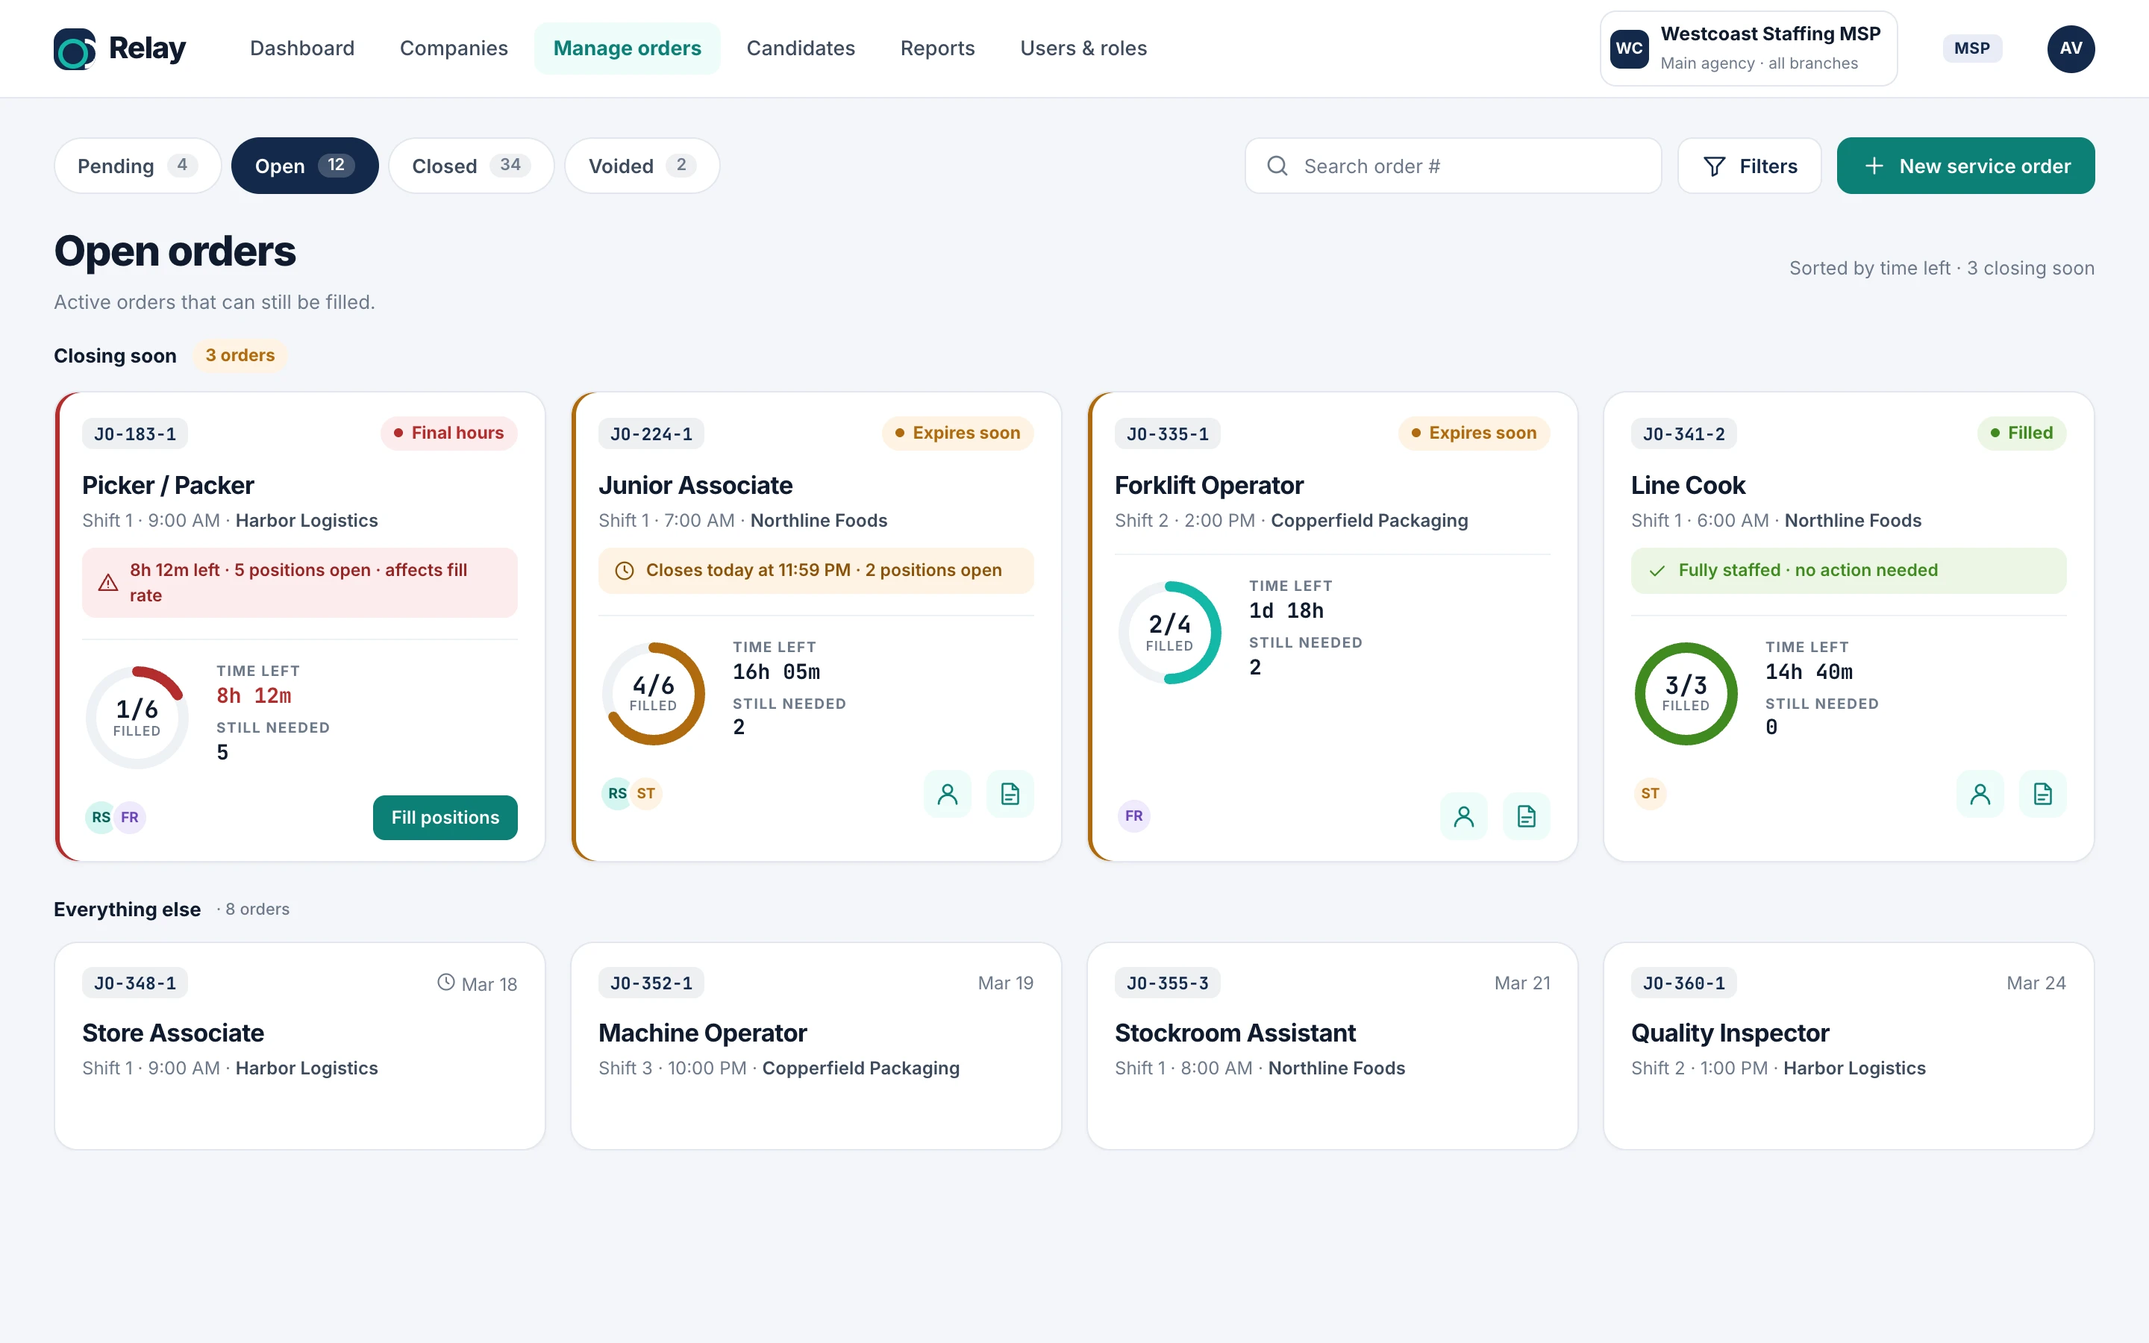
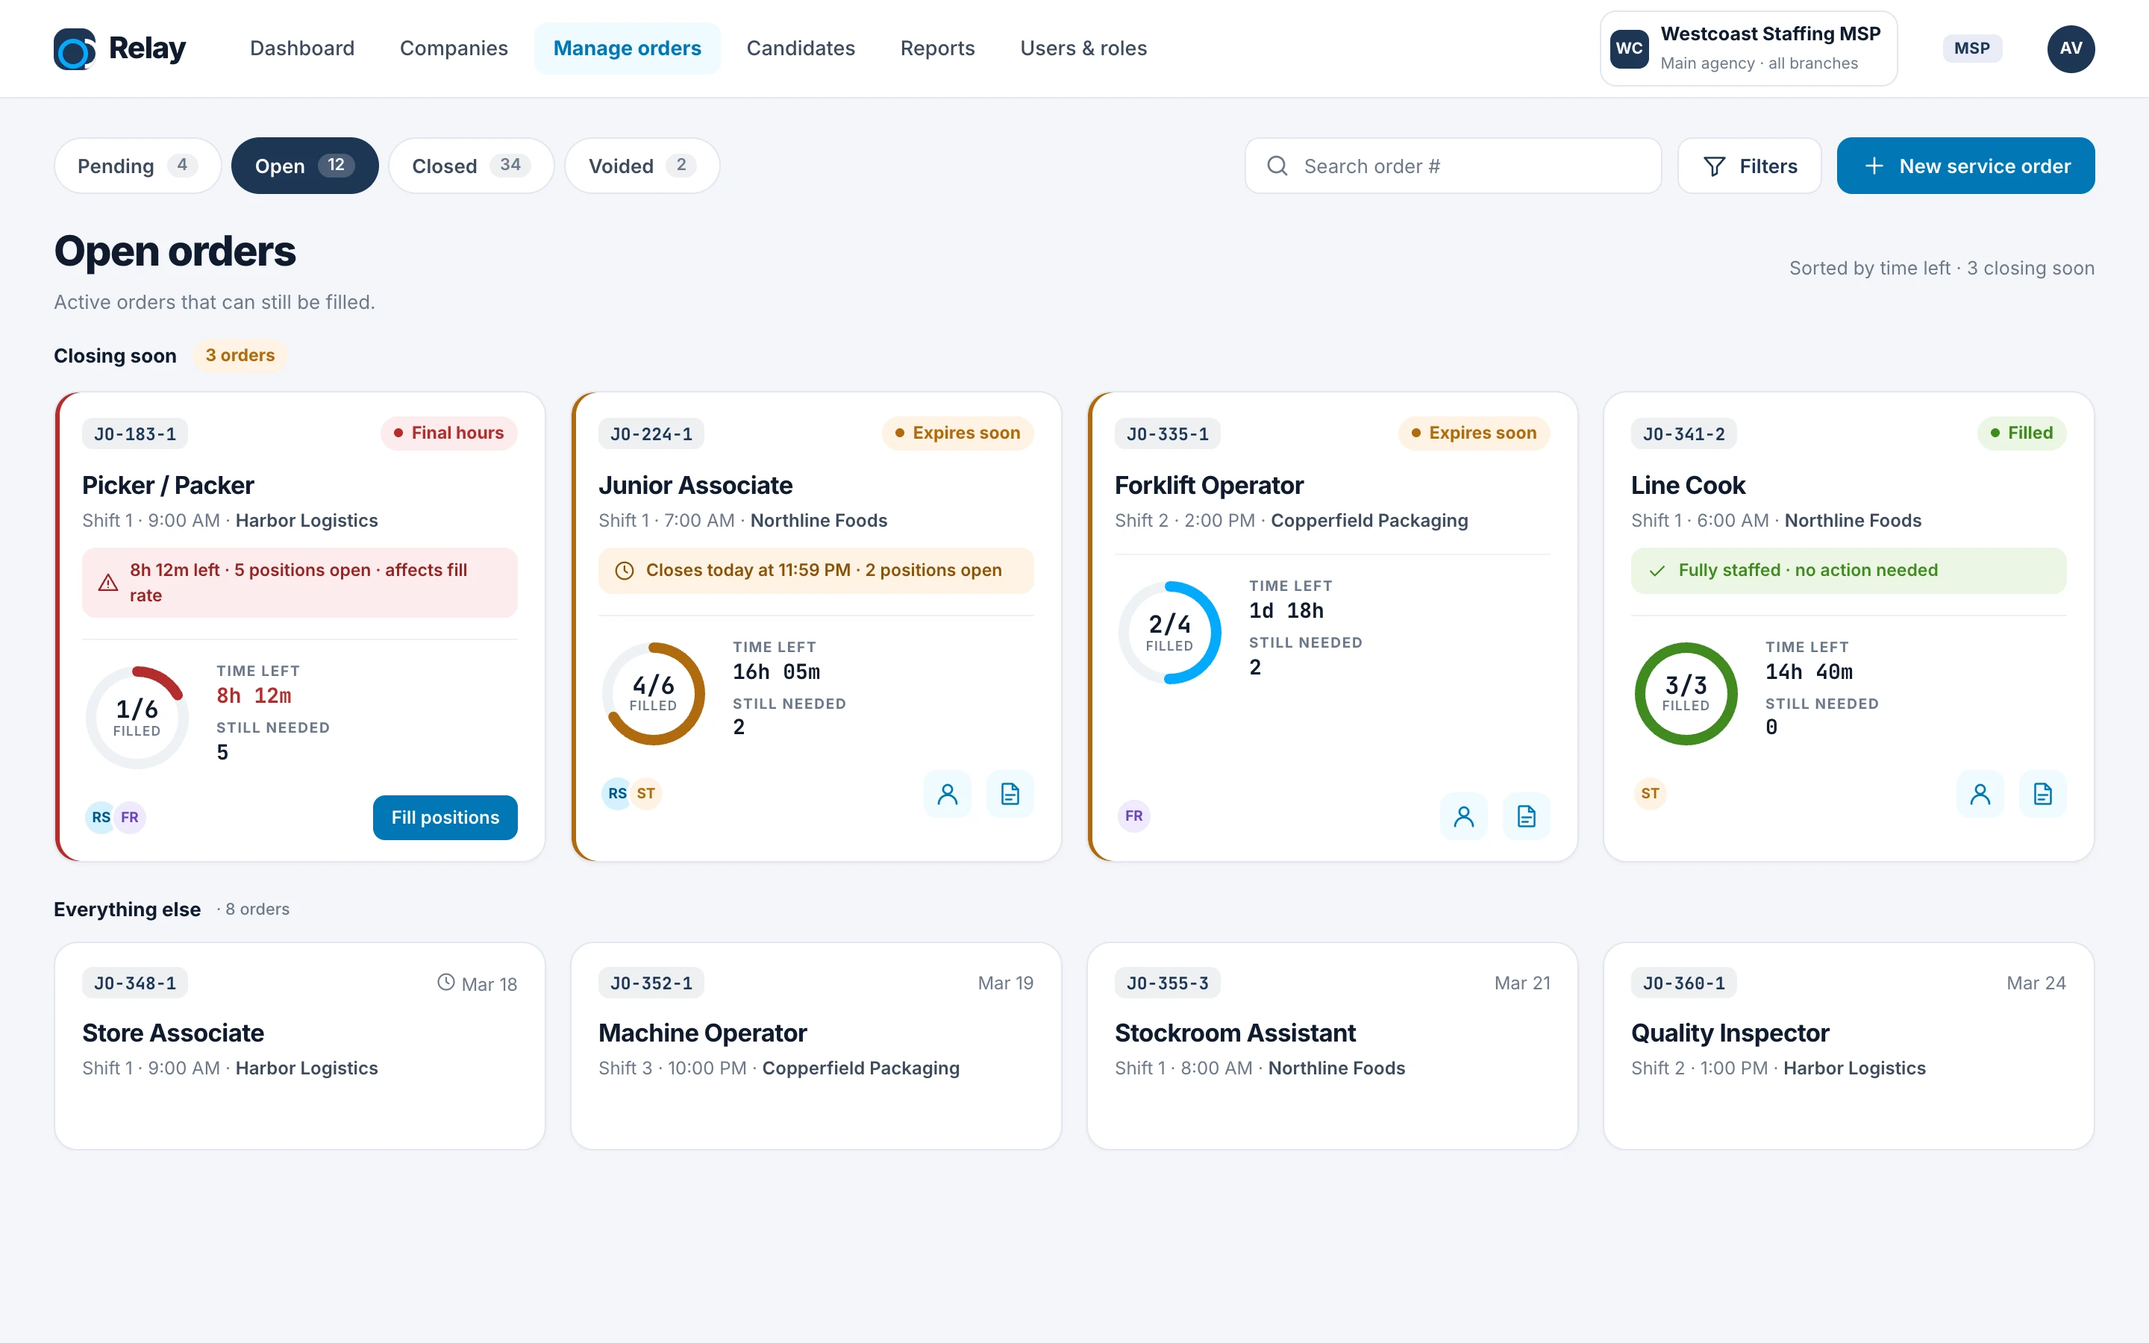
Use the real cyan and navy brand colors in Relay and Foundry

diff --git a/case-relay.html b/case-relay.html
@@ -33,7 +33,7 @@
 <section class="decision decision-reverse wrap"><div class="decision-copy"><span class="decision-index">02 / Outcomes, not deletions</span><h2>Replacing “Deleted” with real outcomes.</h2><p>The old “Deleted” tab mixed failed orders, cancelled orders and mistakes, and implied the history was gone.</p><dl><div><dt>The decision</dt><dd>Tabs become Pending, Open, Closed and Voided. A closed order shows what happened (fully filled, incomplete, unfilled) separately from how it closed (automatically or by a staffer).</dd></div><div><dt>The guardrail</dt><dd>No order is deleted. Void is only for MSP entry errors, needs a reason, and voiding a service order voids its job orders with an audit record.</dd></div><div><dt>Why it matters</dt><dd>Reports can now tell a hard-to-fill order apart from a data-entry mistake.</dd></div></dl></div><figure class="screen-figure"><div class="screen-stage"><a class="screen-zoom" href="./assets/relay/status.webp" data-zoom aria-label="Enlarge: Closed orders with outcome and closure columns, and a void dialog that requires a reason"><img src="./assets/relay/status.webp" alt="Closed orders with outcome and closure columns, and a void dialog that requires a reason" loading="lazy" decoding="async" width="2880" height="1800" /></a></div><figcaption><span>Closed orders · Outcome vs. closure, void with reason</span><a href="./assets/relay/status.webp" data-zoom data-alt="Closed orders with outcome and closure columns, and a void dialog that requires a reason">Enlarge screen ↗</a></figcaption></figure></section>
 <section class="decision wrap"><div class="decision-copy"><span class="decision-index">03 / Ownership</span><h2>Making it clear who owns each order.</h2><p>Several MSP users and branches work the same order. Without clear ownership, nobody felt responsible for the gap.</p><dl><div><dt>The decision</dt><dd>Every order has a host who owns it, co-hosts who help without taking ownership, and participants who can pledge and submit.</dd></div><div><dt>The guardrail</dt><dd>Cross-branch invites apply to one order only and stay pending until accepted. A sticky summary keeps fill, branches and time left in view while you switch sections.</dd></div><div><dt>Why it matters</dt><dd>Pledges make capacity explicit before filling starts, so fill rate is measured against a commitment.</dd></div></dl></div><figure class="screen-figure"><div class="screen-stage"><a class="screen-zoom" href="./assets/relay/detail.webp" data-zoom aria-label="Enlarge: Order detail with sticky summary, branch pledges, submitted candidates and order team"><img src="./assets/relay/detail.webp" alt="Order detail with sticky summary, branch pledges, submitted candidates and order team" loading="lazy" decoding="async" width="2880" height="1800" /></a></div><figcaption><span>Order detail · Pledges and the order team</span><a href="./assets/relay/detail.webp" data-zoom data-alt="Order detail with sticky summary, branch pledges, submitted candidates and order team">Enlarge screen ↗</a></figcaption></figure></section>
 <section class="decision decision-reverse wrap"><div class="decision-copy"><span class="decision-index">04 / Visibility</span><h2>What the client sees, and what stays internal.</h2><p>The client company and the MSP look at the same order, but the client should never see branch pledges, internal notes or fill-rate targets.</p><dl><div><dt>The decision</dt><dd>The client view is built around progress and the decisions only they can make: accepting or declining candidates.</dd></div><div><dt>The guardrail</dt><dd>Internal data is removed for the client role in the data itself, and the screen tells MSP users what the client can’t see.</dd></div><div><dt>Why it matters</dt><dd>Clients see their progress without seeing how the MSP works with its agencies.</dd></div></dl></div><figure class="screen-figure"><div class="screen-stage"><a class="screen-zoom" href="./assets/relay/company.webp" data-zoom aria-label="Enlarge: Client view of the same order with request progress and candidates to review"><img src="./assets/relay/company.webp" alt="Client view of the same order with request progress and candidates to review" loading="lazy" decoding="async" width="2880" height="1800" /></a></div><figcaption><span>Client view · Progress and candidate review</span><a href="./assets/relay/company.webp" data-zoom data-alt="Client view of the same order with request progress and candidates to review">Enlarge screen ↗</a></figcaption></figure></section>
-<section class="chapter wrap" id="system"><div class="chapter-heading"><p class="eyebrow">03 / The system underneath</p><h2>Built on a design system shared with Meralis.</h2></div><div class="chapter-copy"><p>Relay runs on Foundry, the token-based system I maintain for both products. Here it fixed a brand color that failed contrast (2.5:1 → 4.87:1) and gave status and role badges different colors so they don’t get confused.</p><p><a class="primary-link" href="./case-foundry.html">Read the Foundry case ↗</a></p></div></section>
+<section class="chapter wrap" id="system"><div class="chapter-heading"><p class="eyebrow">03 / The system underneath</p><h2>Built on a design system shared with Meralis.</h2></div><div class="chapter-copy"><p>Relay runs on Foundry, the token-based system I maintain for both products. Here it fixed a brand color that failed contrast (2.6:1 → 4.86:1) and gave status and role badges different colors so they don’t get confused.</p><p><a class="primary-link" href="./case-foundry.html">Read the Foundry case ↗</a></p></div></section>
 <section class="chapter wrap" id="training"><div class="chapter-heading"><p class="eyebrow">04 / User training</p><h2>Training new users on the whole workflow.</h2></div><div class="chapter-copy"><p>New users struggled because they learned screens without understanding the chain behind them. I designed and built a training site: five animated journeys (order, recruiter, worker, payroll and time off) that show how work moves between teams, linked to role-based lessons and exercises.</p><p><strong>What I would do earlier:</strong> write the order rules (ownership, outcomes, who sees what) in a shared document before designing any screen. A lot of my later work was turning rules people had in their heads into something written.</p></div></section>
 <div class="wrap"><figure class="screen-figure"><div class="screen-stage"><a class="screen-zoom" href="./assets/relay/training.webp" data-zoom aria-label="Enlarge: Training site with an animated order journey and a library of five journeys"><img src="./assets/relay/training.webp" alt="Training site with an animated order journey and a library of five journeys" loading="lazy" decoding="async" width="2880" height="1800" /></a></div><figcaption><span>User training · Animated journeys by role</span><a href="./assets/relay/training.webp" data-zoom data-alt="Training site with an animated order journey and a library of five journeys">Enlarge screen ↗</a></figcaption></figure></div>
 <footer class="case-footer wrap"><div><span>Have a workflow with too many handoffs?</span><h2>Let’s talk.</h2></div><a class="primary-link" href="./index.html#contact">Contact Irene ↗</a><a href="./index.html#work">← Back to selected work</a></footer>

diff --git a/case-foundry.html b/case-foundry.html
@@ -16,15 +16,15 @@
   <h1>A design system<br><em>shared by two products.</em></h1>
   <div class="intro-bottom"><p>Foundry is the design system behind <a href="./case-meralis.html">Meralis</a> and <a href="./case-relay.html">Relay</a>. I created it so both products could use the same tokens, components and rules. Everything is written down, so developers and the AI tools we use read the same guidelines I do.</p><a class="primary-link" href="#themes">See the system ↓</a></div>
 </section>
-<div class="wrap"><figure class="screen-figure"><div class="screen-stage"><a class="screen-zoom" href="./assets/foundry/themes.webp" data-zoom aria-label="Enlarge: The same components rendered in Relay teal and Meralis purple"><img src="./assets/foundry/themes.webp" alt="The same components rendered in Relay teal and Meralis purple" loading="lazy" decoding="async" width="2880" height="1610" /></a></div><figcaption><span>Same tokens, same components, two brands</span><a href="./assets/foundry/themes.webp" data-zoom data-alt="The same components rendered in Relay teal and Meralis purple">Enlarge ↗</a></figcaption></figure></div>
+<div class="wrap"><figure class="screen-figure"><div class="screen-stage"><a class="screen-zoom" href="./assets/foundry/themes.webp" data-zoom aria-label="Enlarge: The same components rendered in Relay cyan and Meralis purple"><img src="./assets/foundry/themes.webp" alt="The same components rendered in Relay cyan and Meralis purple" loading="lazy" decoding="async" width="2880" height="1610" /></a></div><figcaption><span>Same tokens, same components, two brands</span><a href="./assets/foundry/themes.webp" data-zoom data-alt="The same components rendered in Relay cyan and Meralis purple">Enlarge ↗</a></figcaption></figure></div>
 <section class="project-facts wrap" aria-label="Project summary">
   <div><span>My role</span><strong>Creator &amp; owner</strong><p>I created the system: token values, guidelines, component rulings and documentation. One front-end developer implemented it hand in hand with me.</p></div>
   <div><span>Scale</span><strong>2 products · ~8 developers</strong><p>47 components and 193 semantic tokens, 177 of them shared, used daily by around eight developers. 16 logged decisions.</p></div>
   <div><span>Method</span><strong>Written rules + AI tools</strong><p>Specs that both developers and AI coding tools follow. Figma stays as the visual reference.</p></div>
 </section>
-<p class="disclosure wrap">Foundry is an anonymized name for the design system of two live products at my current company. Boards are portfolio reconstructions using the real token values and rules.</p>
-<section class="chapter wrap" id="context"><div class="chapter-heading"><p class="eyebrow">01 / The problem</p><h2>Two related products, built in two different ways.</h2></div><div class="chapter-copy"><p>The HR product and the staffing marketplace share modules like time off, payroll and roles, but they were built with different component libraries, hardcoded colors and their own spacing.</p><p>The marketplace’s bright brand color was used for buttons and text, where white text reached only 2.5:1. Borders and focus rings were almost invisible.</p><p><strong>I wanted one system both products could use, while each one kept its own brand.</strong></p></div></section>
-<section class="chapter wrap" id="themes"><div class="chapter-heading"><p class="eyebrow">02 / One system, two brands</p><h2>The same tokens, with a different brand on top.</h2></div><div class="chapter-copy"><p>Both products use the same semantic tokens and components. A thin adapter layer maps each product’s brand palette onto those names, so a button is always <code>--brand-cta</code>, whether it renders teal or purple.</p><p>Spacing, radius, type, density, motion, focus and borders are shared outright. Only brand, neutrals and a few data-visualization accents are themed.</p></div></section>
+<p class="disclosure wrap">Foundry is a portfolio name for the design system of two live products at my current company. The boards use the real token values and rules.</p>
+<section class="chapter wrap" id="context"><div class="chapter-heading"><p class="eyebrow">01 / The problem</p><h2>Two related products, built in two different ways.</h2></div><div class="chapter-copy"><p>The HR product and the staffing marketplace share modules like time off, payroll and roles, but they were built with different component libraries, hardcoded colors and their own spacing.</p><p>The marketplace’s bright brand color was used for buttons and text, where white text reached only 2.6:1. Borders and focus rings were almost invisible.</p><p><strong>I wanted one system both products could use, while each one kept its own brand.</strong></p></div></section>
+<section class="chapter wrap" id="themes"><div class="chapter-heading"><p class="eyebrow">02 / One system, two brands</p><h2>The same tokens, with a different brand on top.</h2></div><div class="chapter-copy"><p>Both products use the same semantic tokens and components. A thin adapter layer maps each product’s brand palette onto those names, so a button is always <code>--brand-cta</code>, whether it renders cyan or purple.</p><p>Spacing, radius, type, density, motion, focus and borders are shared outright. Only brand, neutrals and a few data-visualization accents are themed.</p></div></section>
 <div class="wrap"><figure class="screen-figure"><div class="screen-stage"><a class="screen-zoom" href="./assets/foundry/tokens.webp" data-zoom aria-label="Enlarge: Token table comparing shared and themed values, with 92% of names shared"><img src="./assets/foundry/tokens.webp" alt="Token table comparing shared and themed values, with 92% of names shared" loading="lazy" decoding="async" width="2880" height="1318" /></a></div><figcaption><span>177 of 193 tokens are shared across both products</span><a href="./assets/foundry/tokens.webp" data-zoom data-alt="Token table comparing shared and themed values, with 92% of names shared">Enlarge ↗</a></figcaption></figure></div>
 <div class="wrap" style="margin-top:30px"><figure class="screen-figure"><div class="screen-stage"><a class="screen-zoom" href="./assets/foundry/scales.webp" data-zoom aria-label="Enlarge: Spacing, type, radius and row-height scales"><img src="./assets/foundry/scales.webp" alt="Spacing, type, radius and row-height scales" loading="lazy" decoding="async" width="2880" height="1130" /></a></div><figcaption><span>Foundations every screen inherits</span><a href="./assets/foundry/scales.webp" data-zoom data-alt="Spacing, type, radius and row-height scales">Enlarge ↗</a></figcaption></figure></div>
 <section class="chapter wrap" id="a11y"><div class="chapter-heading"><p class="eyebrow">03 / Accessibility</p><h2>Fixing contrast in the tokens instead of screen by screen.</h2></div><div class="chapter-copy"><p>I audited contrast against WCAG 2.2 AA and fixed the system at the token level, so every screen improved at once instead of page by page.</p><p>The biggest change was splitting the brand color in two: a bright identity shade for logos and decoration, and a darker interaction shade for anything that carries text.</p></div></section>

diff --git a/relay-case.css b/relay-case.css
@@ -1,11 +1,11 @@
 /* Relay: Meralis case layout with the Relay palette. */
-body.relay { --brand:#0d7f75; --soft:#e6f6f3; --line:#e2e7ee; }
-.relay .relay-brand b { width:34px; height:34px; border-radius:10px; background:#13294b; position:relative; overflow:hidden; }
-.relay .relay-brand b::before { content:""; position:absolute; left:6px; top:8px; width:16px; height:16px; border-radius:50%; border:3.5px solid #14b8a6; }
+body.relay { --brand:#0277b6; --soft:#e8f6fe; --line:#e2e7ee; }
+.relay .relay-brand b { width:34px; height:34px; border-radius:10px; background:#1e3655; position:relative; overflow:hidden; }
+.relay .relay-brand b::before { content:""; position:absolute; left:6px; top:8px; width:16px; height:16px; border-radius:50%; border:3.5px solid #03a9fc; }
 .relay .primary-link { background:var(--brand); }
-.relay .hero-showcase { background:radial-gradient(ellipse at 75% 0,#bdeee6,transparent 64%),#eaf7f4; }
+.relay .hero-showcase { background:radial-gradient(ellipse at 75% 0,#bfe8fe,transparent 64%),#eaf6fd; }
 .relay .hero-showcase .device-figure { background:transparent; }
 .relay .screen-stage { background:#f2f6f8; }
 .relay .model-after { background:var(--soft); }
-.relay .delivery { background:#f2f8f7; border-color:#e0efec; }
+.relay .delivery { background:#f1f8fd; border-color:#ddeefa; }
 .relay .disclosure a { color:var(--brand); text-decoration:underline; }

diff --git a/foundry-case.css b/foundry-case.css
@@ -1,7 +1,7 @@
 /* Foundry: neutral ink palette so it reads as the system under both brands. */
 body.foundry { --brand:#12141a; --soft:#f1f2f5; }
-.foundry .foundry-brand b { width:34px; height:34px; border-radius:10px; background:linear-gradient(135deg,#0d7f75 0 50%,#7029bd 50% 100%); }
-.foundry h1 em { background:linear-gradient(90deg,#0d7f75,#7029bd); -webkit-background-clip:text; background-clip:text; color:transparent; }
+.foundry .foundry-brand b { width:34px; height:34px; border-radius:10px; background:linear-gradient(135deg,#0277b6 0 50%,#8549d8 50% 100%); }
+.foundry h1 em { background:linear-gradient(90deg,#0277b6,#8549d8); -webkit-background-clip:text; background-clip:text; color:transparent; }
 .foundry .primary-link { background:#12141a; }
 .foundry .screen-stage { background:#f3f4f7; padding:18px; }
 .foundry .intro-bottom a:not(.primary-link), .foundry .chapter-copy a, .foundry .disclosure a { color:#12141a; text-decoration:underline; text-underline-offset:3px; }
